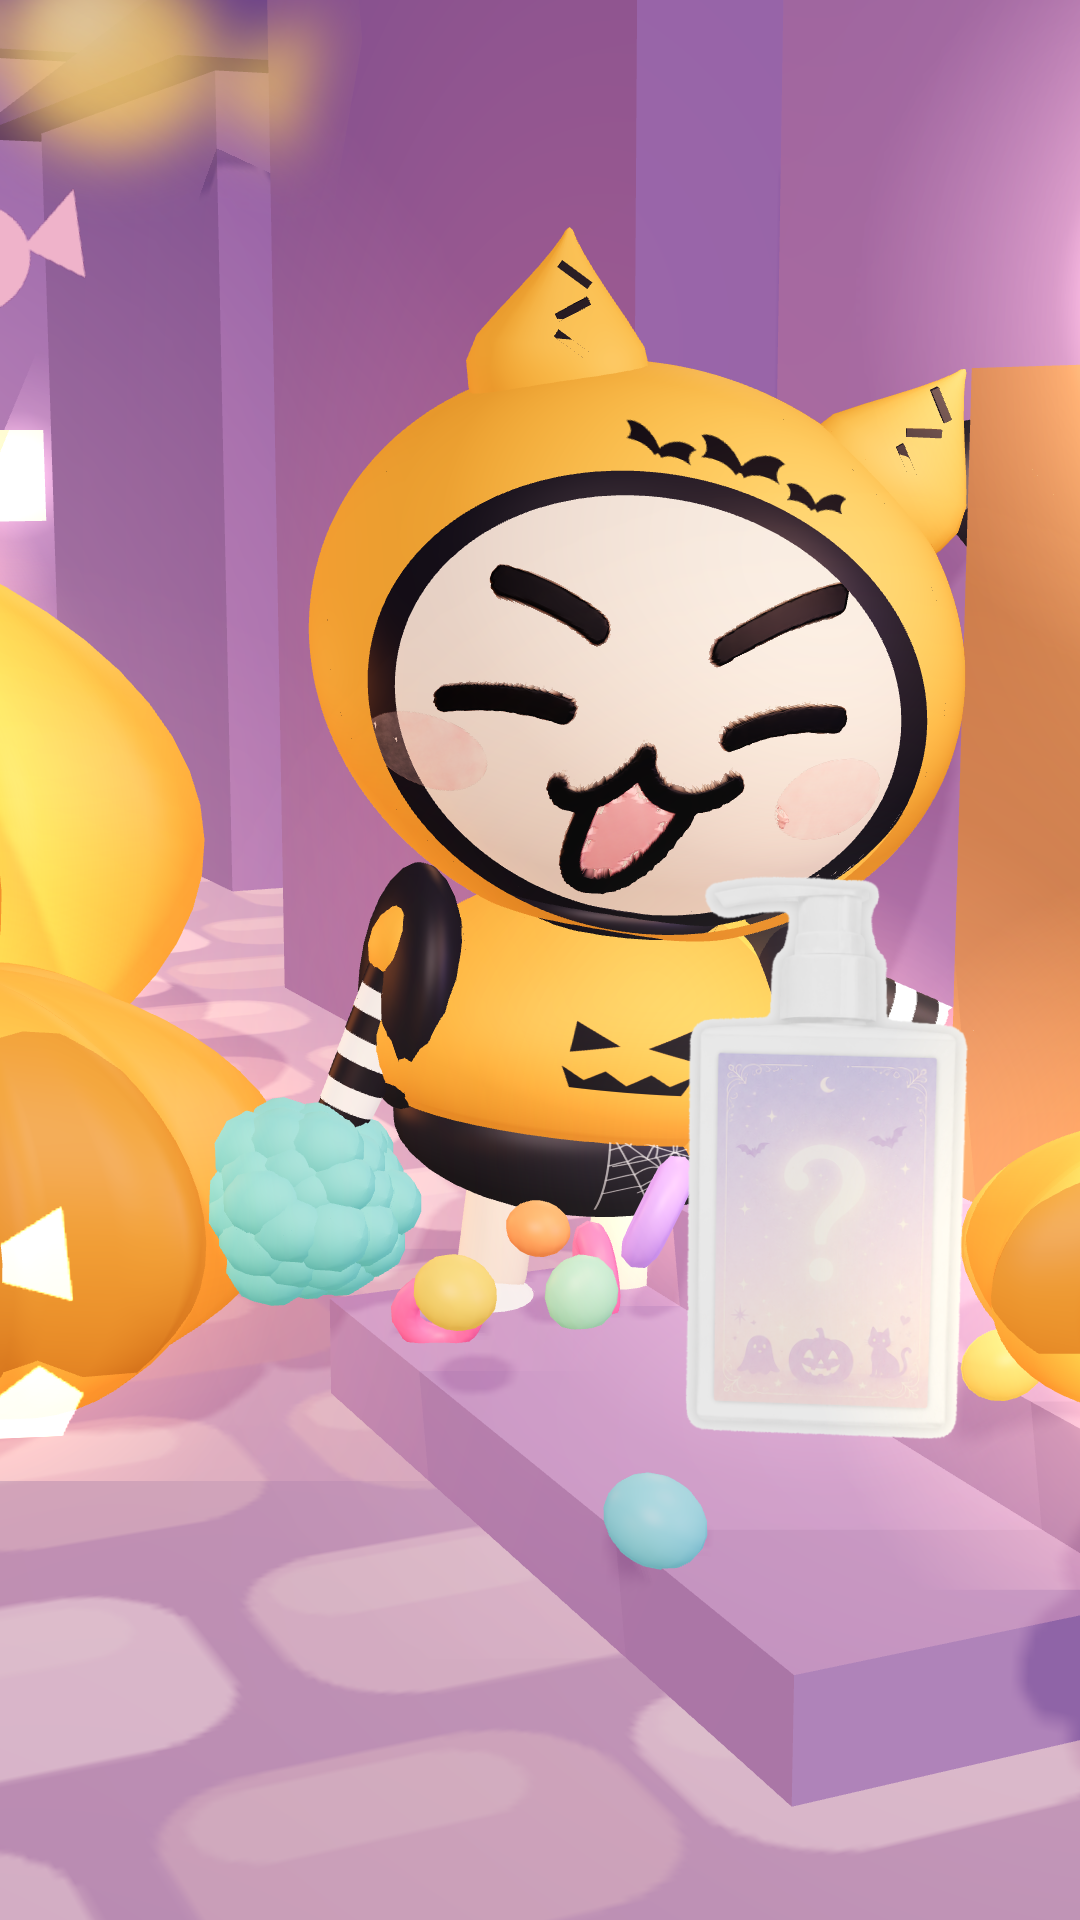
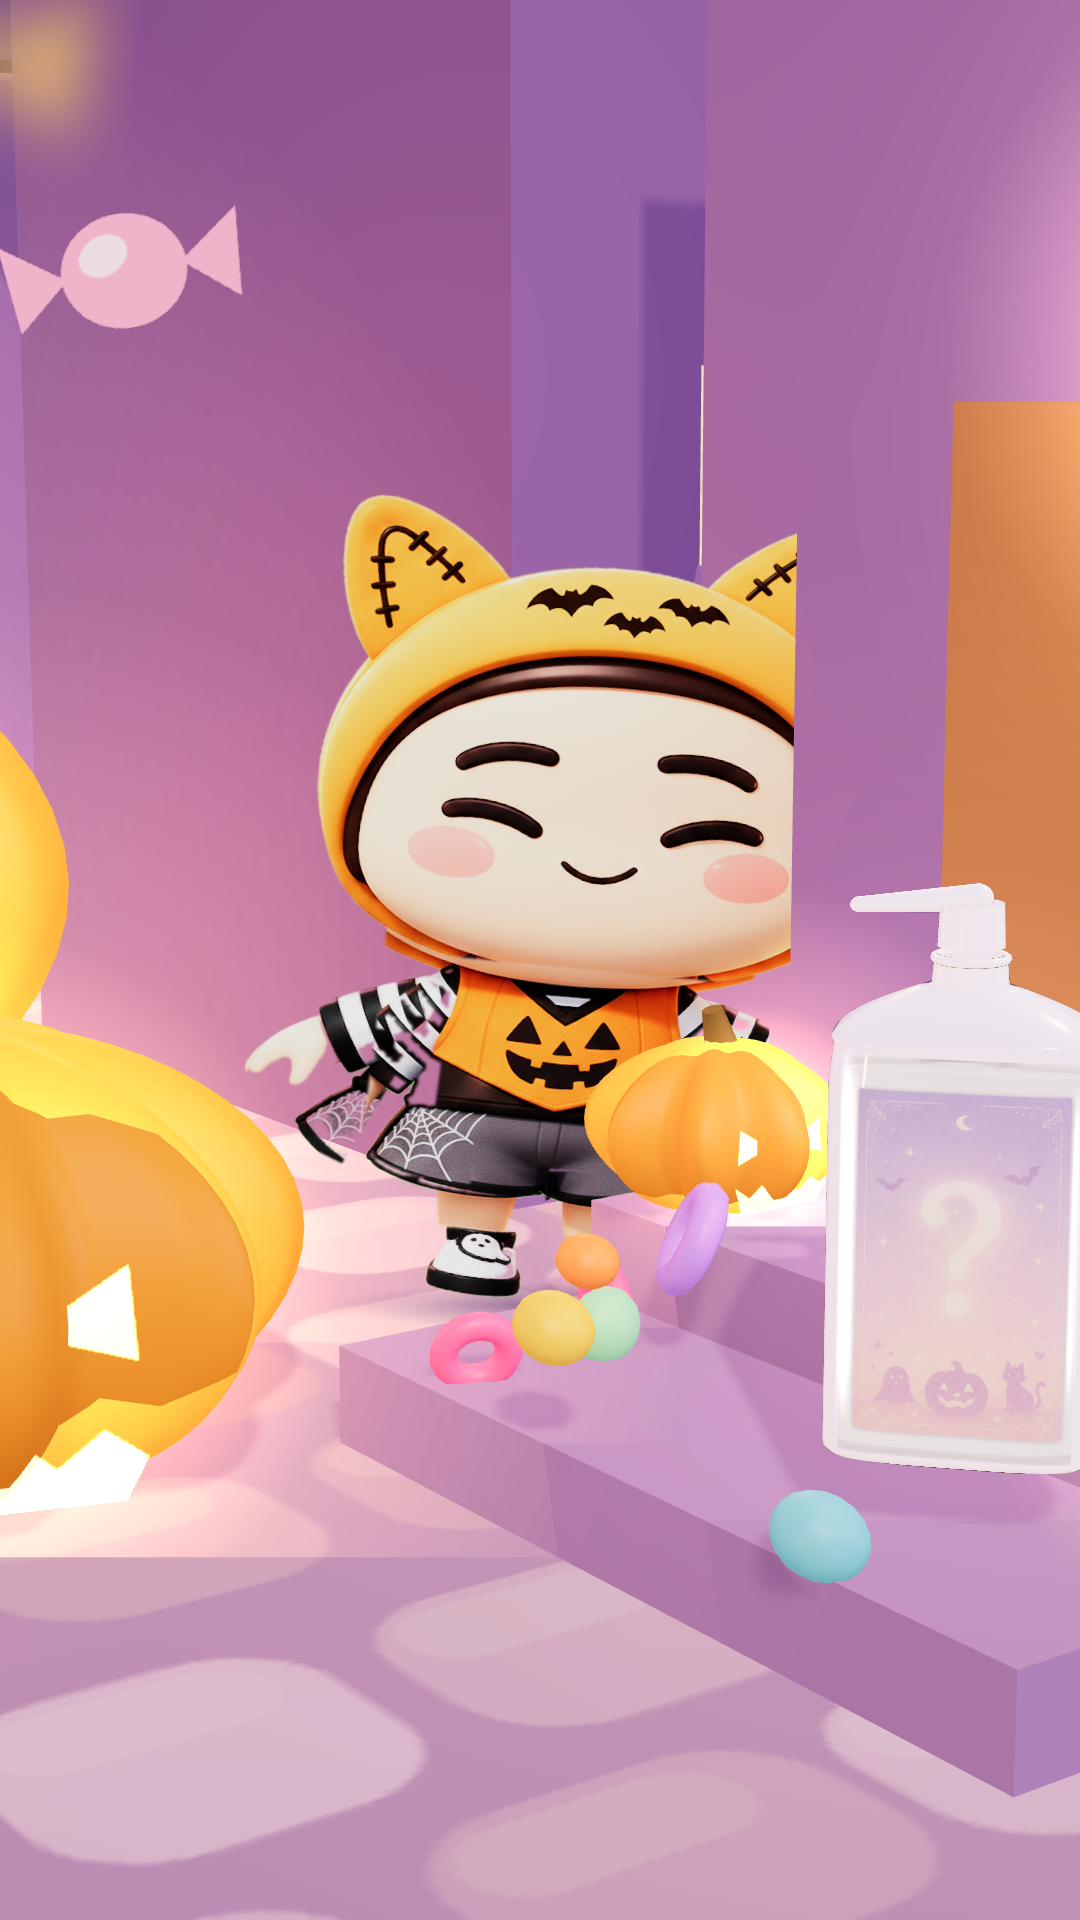
Veo生成の下準備：ポンポン版のプレート16枚、プロンプト更新、ショット01のリードイン
施主の目標動画は、このシーンのフレームをVeo系の image-to-video に通して
キャラを再描画したものと一致する（背景・構図・テロップが同一）。
既存の handoff パイプラインがそのまま使えるので、現行のパペット＋ポンポンの
シーンから clean プレートを取り直し、プロンプトをチアの芝居に合わせた。
ショット01は開始フレームが落下中で画面外なので着地の瞬間を開始プレートにし、
assemble.sh に「冒頭 n 秒は3Dレンダー、その後に生成クリップ」のリードイン
を足した。

Claude-Session: https://claude.ai/code/session_017oDLcXHW4jPPj9EWyF8qhq

diff --git a/handoff/veo_generate.py b/handoff/veo_generate.py
@@ -29,14 +29,18 @@ HOST   = 'https://generativelanguage.googleapis.com'
 TOKENFILE = os.path.expanduser('~/.gcp_access_token')
 
 STYLE = (
-  "3D toy figure render, soft vinyl and matte plastic surfaces, collectible figure aesthetic. "
-  "Pastel dusk palette of lavender, soft peach and warm orange. Soft diffused lighting, lifted "
-  "shadows, low contrast, shallow depth of field with creamy bokeh. A cute chibi character in an "
-  "orange cat-hood halloween costume: stitched cat ears, small bats across the brow, a black floppy "
-  "tip with a candy corn, a sleeveless orange top with a black jack-o'-lantern face, black and white "
-  "striped sleeves, black shorts with a white cobweb print, white sneakers. "
+  "3D toy figure render, soft vinyl and matte plastic surfaces, collectible designer-toy aesthetic, "
+  "high quality, clean and smooth. Pastel dusk palette of lavender, soft peach and warm orange. "
+  "Soft diffused lighting, lifted shadows, low contrast, shallow depth of field with creamy bokeh. "
+  "A cute chibi character in an orange cat-hood halloween costume: a round yellow-orange hood with "
+  "stitched cat ears and small black bats across the brow, a dark brown twin-tail with a candy corn "
+  "and a bat clip, a sleeveless orange vest with a black jack-o'-lantern face, black and white "
+  "striped sleeves, dark grey shorts with a white cobweb print, white sneakers with a ghost face. "
+  "She holds two big glossy cheer pom-poms, one orange-and-teal and one pink-and-purple, decorated "
+  "with candies and stars, and they swing and jiggle with her movement. "
   "The face must stay exactly as in the input image: closed crescent squinting eyes, thick black "
-  "brows, a wide open smile with a pink tongue, round pink blush. Never open the eyes. "
+  "brows, round pink blush. Never open the eyes, never draw pupils. Keep the character's design, "
+  "proportions and colours identical to the input image in every frame. "
 )
 NEGATIVE = ("open eyes, realistic eyes, pupils, irises, changed facial expression, extra fingers, "
             "text, letters, watermark, morphing face, distorted logo, photorealistic human skin, "
@@ -55,14 +59,14 @@ RATES = {
 CLIP_SECONDS = 8            # Veo returns a fixed-length clip; we trim it afterwards
 
 SHOTS = [
-  ("01", "01_landing",     2.70, "The character has just landed on the cobbled street and bounces lightly in place, pom-poms jiggling. Candy pieces drift slowly past the lens. The camera pushes in very slowly. Gentle secondary motion only."),
-  ("02", "02_run",         2.70, "The character runs cheerfully toward the camera down the cobbled street, under an arch of glowing pumpkins, with a slight up-and-down bounce and swinging arms. The camera dollies back slowly to hold the framing."),
-  ("03", "03_bigpumpkin",  2.40, "The character bobs happily beside a large glowing pumpkin while candle flames flicker in the foreground. Very slow camera drift to the right, warm light flickering softly on the costume."),
-  ("04", "04_doorstep",    2.40, "The character leans in and tilts its head, curiously looking down at the pump bottle sitting on the doorstep. Candies rock gently. The camera creeps forward slightly."),
-  ("05", "05_pump",        2.20, "Close-up. The character slowly reaches a striped-sleeve arm toward the bottle's pump while the bottle glows faintly. The camera holds nearly still, breathing very slightly."),
-  ("06", "06_archjump",    2.40, "The character jumps joyfully under the pumpkin arch, pom-poms flying up, candies bouncing on the ground. Slight low-angle camera rise."),
-  ("07", "07_bustup",      2.00, "Bust-up. The character bobs and giggles while bats glide across the sky far behind and bokeh candy drifts past. The camera is almost static with a tiny handheld float."),
-  ("08", "08_hero",        2.60, "Hero shot. The character stands on top of a giant pumpkin and proudly raises the bottle higher. Candies float upward around it and the sky glows warmer. The camera arcs slowly around to centre the character."),
+  ("01", "01_landing",     2.70, "The character lands on the cobbled street with a soft squash, springs back up and shakes both pom-poms in a happy cheer, bouncing lightly on her toes, the pom-poms jiggling with every beat. Candy pieces drift slowly past the lens. The camera pushes in very slowly."),
+  ("02", "02_run",         2.70, "The character runs cheerfully toward the camera down the cobbled street under an arch of glowing pumpkins, pom-poms in both hands swinging with her arms, a lively up-and-down bounce in her step. The camera dollies back slowly to hold the framing."),
+  ("03", "03_bigpumpkin",  2.40, "The character sits happily beside a large glowing pumpkin, swaying gently side to side with a pom-pom resting in each hand, candle flames flickering in the foreground. Very slow camera drift to the right."),
+  ("04", "04_doorstep",    2.40, "The character, without pom-poms, walks up to a doorstep, stops, and does a curious double take, leaning in and tilting her head at the small white pump bottle sitting on the step. The camera creeps forward slightly."),
+  ("05", "05_pump",        2.20, "Close-up. The character, without pom-poms, holds the small white pump bottle up in both hands and looks at it curiously, then hugs it a little closer, shifting her weight. The camera holds nearly still, breathing very slightly."),
+  ("06", "06_archjump",    2.40, "The character does three big joyful cheer jumps under the pumpkin arch, throwing both pom-poms high on every jump, the pom-poms flying up and flopping back down, candies bouncing on the ground. Slight low-angle camera rise."),
+  ("07", "07_bustup",      2.00, "Bust-up. The character, without pom-poms, presses both hands to her cheeks bashfully and sways, giving a shy little hop, while bats glide across the sky far behind and bokeh candy drifts past. The camera is almost static with a tiny handheld float."),
+  ("08", "08_hero",        2.60, "Hero shot. The character stands on top of a giant pumpkin and, after a small crouch, proudly sweeps the small white pump bottle high above her head with one arm. Candies float upward around her and the sky glows warmer. The camera arcs slowly around to centre her."),
 ]
 
 KEYFILE = os.path.expanduser('~/.gemini_api_key')
